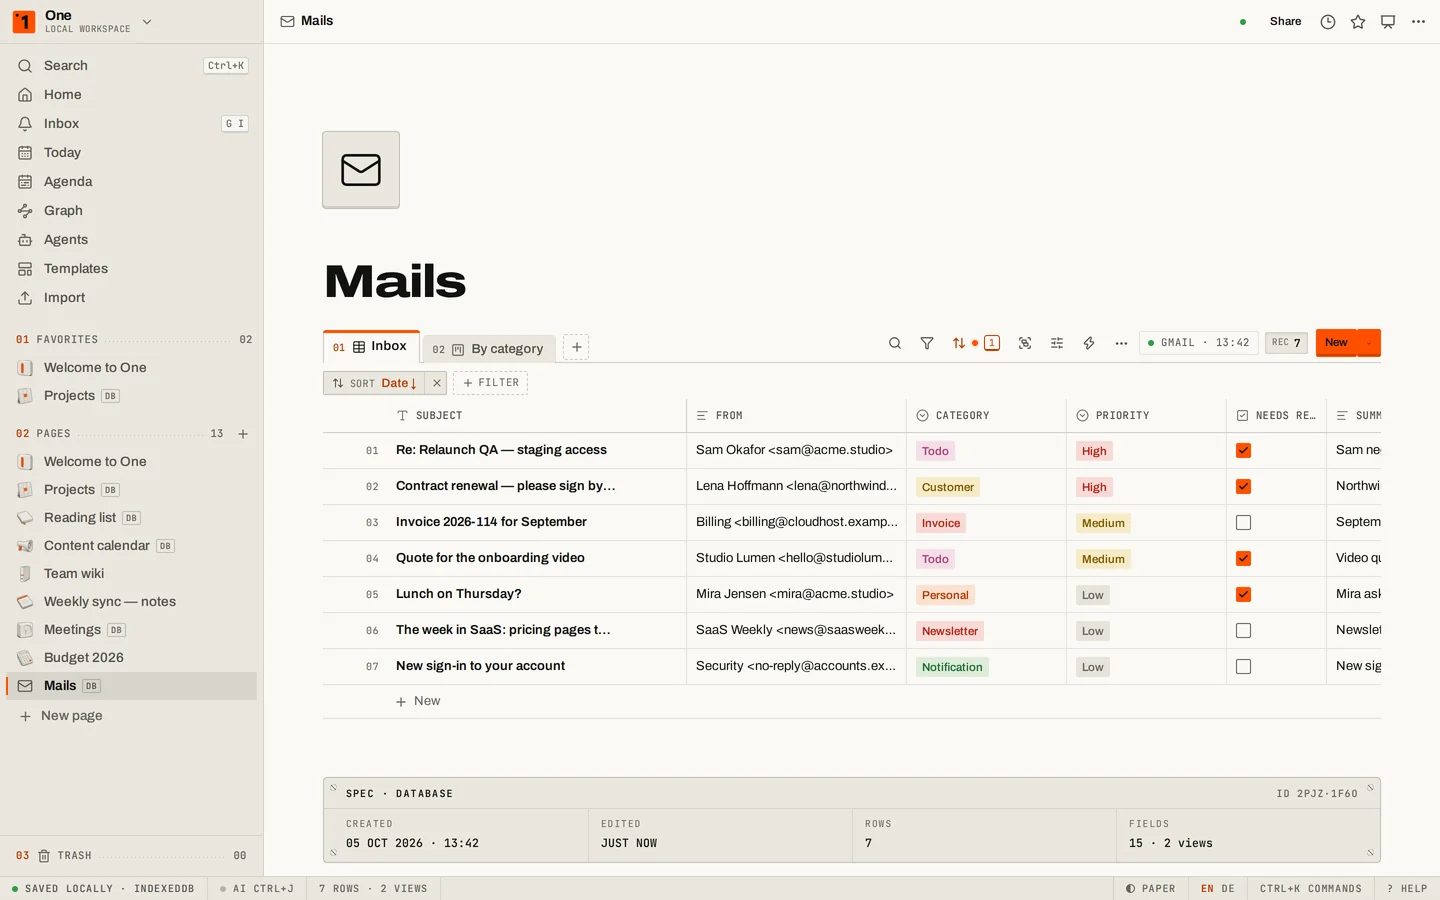
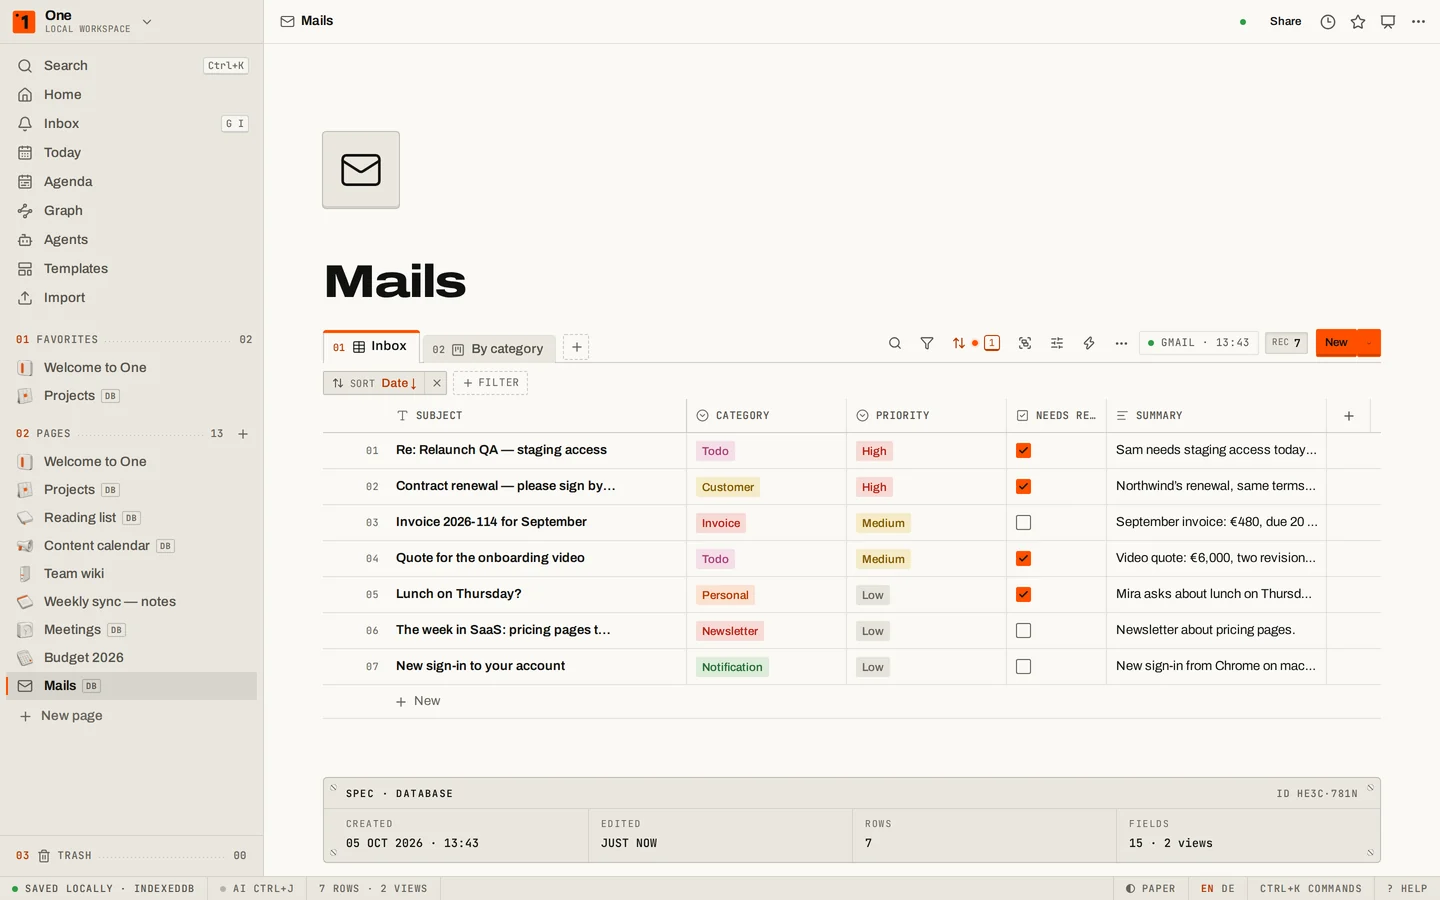
WIP: blocks to page + selection, changelog, image AI (in progress, not deployed)
Claude-Session: https://claude.ai/code/session_011PTSVwNXF7v9uoqKd4CVvx

diff --git a/src/app/editor/select/SelectionGrip.tsx b/src/app/editor/select/SelectionGrip.tsx
@@ -27,6 +27,7 @@ import './select.css'
 /** How far left of the text a press still counts as "in the margin". */
 const MARGIN = 72
 const LONG_PRESS = 450
+const COARSE = typeof window !== 'undefined' && !!window.matchMedia?.('(hover: none)').matches
 
 function kindOf(node: PMNode): string {
   const level = node.type.name === 'heading' ? node.attrs.level : node.type.name === 'details' ? toggleHeadingLevel(node) : 0
@@ -37,8 +38,8 @@ interface Box {
   top: number
   left: number
   bottom: number
-  /** the count chip beside the grip (room in the margin) or above the first block */
-  place: 'side' | 'top'
+  /** the count: a chip beside the grip (room in the margin), else a badge on the grip */
+  place: 'side' | 'badge'
 }
 
 export interface SelectionGripProps {
@@ -73,7 +74,7 @@ export function SelectionGrip({ editor, bridge, pageId, hidden, onOpen }: Select
     const h = host.getBoundingClientRect()
     const a = first.getBoundingClientRect()
     const z = last.getBoundingClientRect()
-    setBox({ top: a.top - h.top, left: a.left - h.left, bottom: Math.max(a.bottom, z.bottom) - h.top, place: a.left > 220 ? 'side' : 'top' })
+    setBox({ top: a.top - h.top, left: a.left - h.left, bottom: Math.max(a.bottom, z.bottom) - h.top, place: a.left > 220 && !COARSE ? 'side' : 'badge' })
   }, [st, editor])
 
   useLayoutEffect(measure, [measure])
@@ -176,9 +177,14 @@ export function SelectionGrip({ editor, bridge, pageId, hidden, onOpen }: Select
             onClick={() => openAtFirst(false)}
           >
             <GripVertical size={16} strokeWidth={1.8} />
+            {st.count > 1 && box.place === 'badge' && (
+              <span className="sel-grip__badge" data-testid="selection-count" aria-hidden>
+                {st.count}
+              </span>
+            )}
           </button>
         </div>
-        {st.count > 1 && (
+        {st.count > 1 && box.place === 'side' && (
           <span className="sel-grip__count label" data-testid="selection-count">
             {t('editor.select.count', { n: st.count })}
           </span>

diff --git a/src/app/editor/select/select.css b/src/app/editor/select/select.css
@@ -56,13 +56,27 @@
   animation: fade-in var(--dur-1) var(--ease-out);
 }
 
-/* no room in the margin (narrow pages, phones): the chip sits on the selection's top edge */
-.sel-grip[data-place='top'] .sel-grip__count {
-  top: auto;
-  right: auto;
-  bottom: 100%;
-  left: 100%;
-  margin: 0 0 3px 2px;
+/* no room in the margin (narrow pages, phones): the count sits on the grip */
+.sel-grip__grip {
+  position: relative;
+}
+
+.sel-grip__badge {
+  position: absolute;
+  top: -5px;
+  right: -4px;
+  min-width: 14px;
+  height: 14px;
+  padding: 0 3px;
+  border-radius: var(--radius-1);
+  background: var(--signal);
+  color: var(--on-signal);
+  font-family: var(--font-mono);
+  font-size: 9.5px;
+  font-weight: 600;
+  line-height: 14px;
+  text-align: center;
+  pointer-events: none;
 }
 
 /* phones: just the grip (no "+"), the size of the touch grip; the caret's touch grip steps aside */
